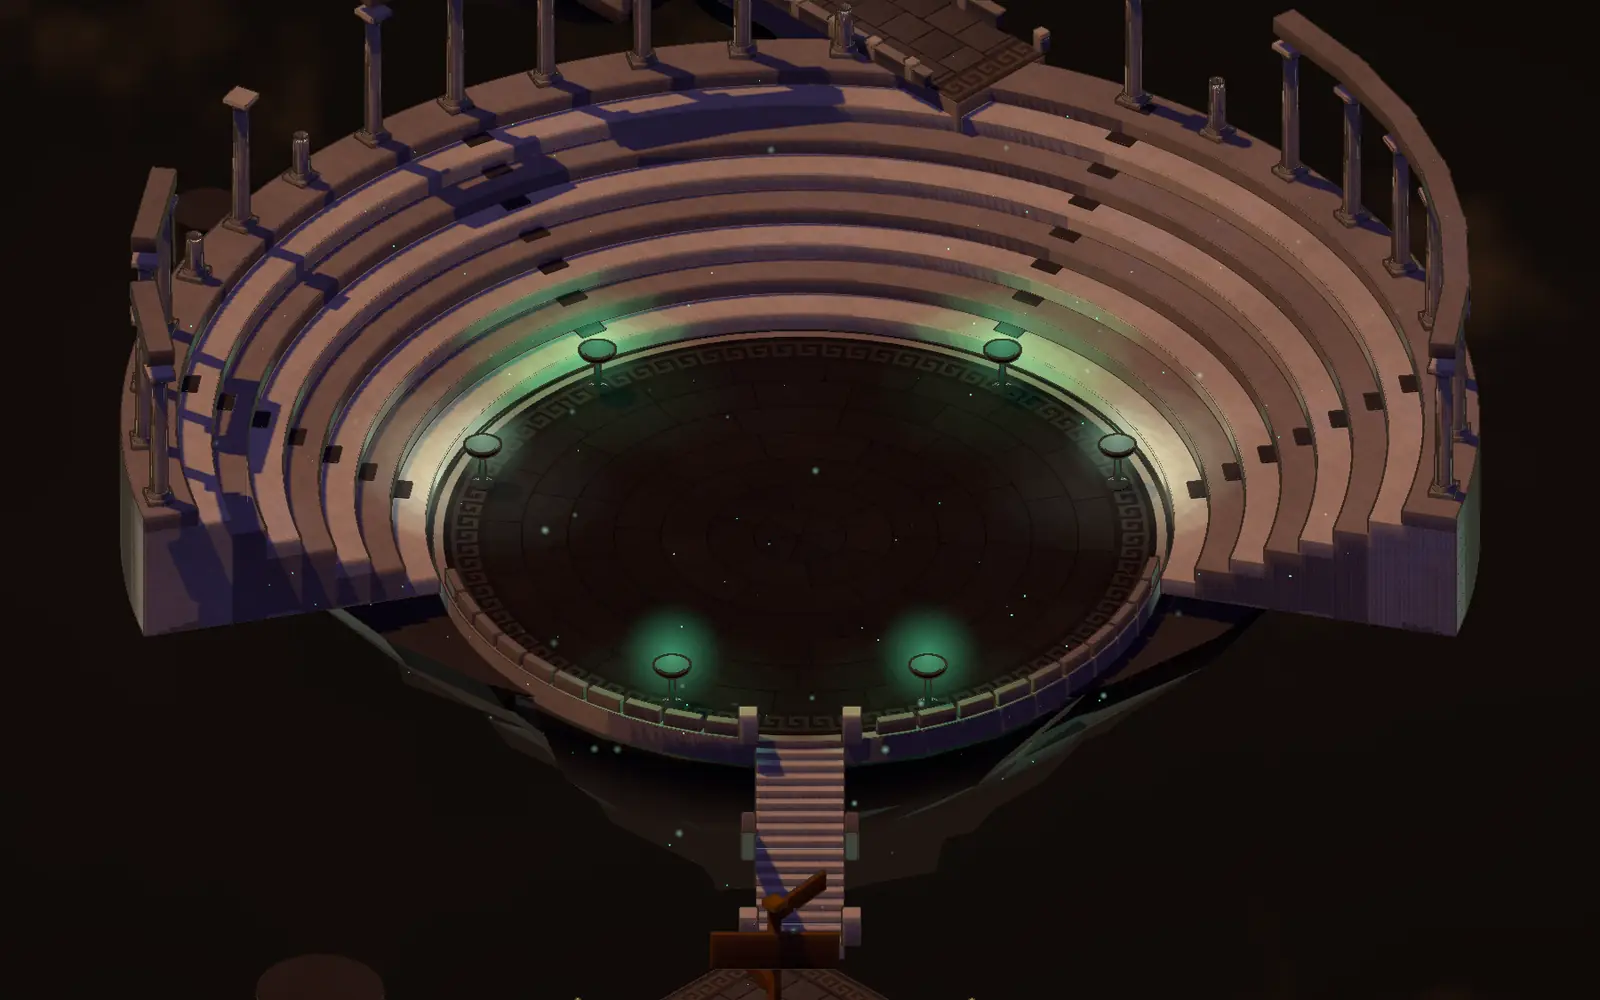
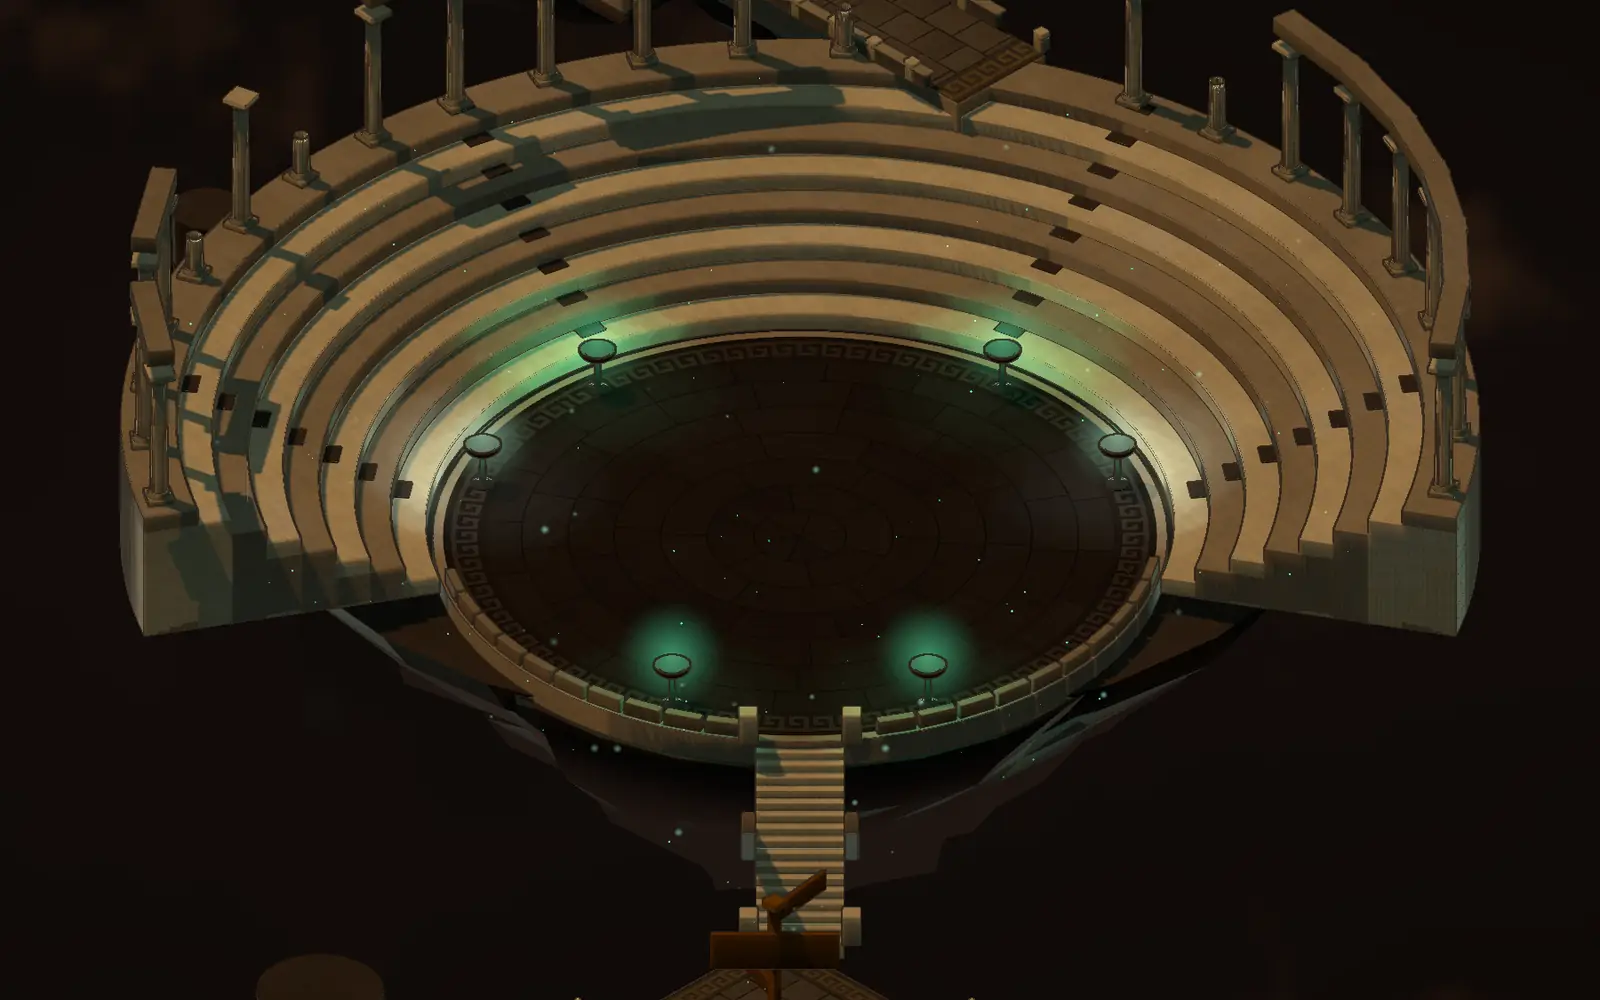
Default world: the sky light is a mint-grey instead of violet, so lit stone reads warm and the shadows stop going purple-mud; posters re-rendered

diff --git a/src/components/world/scene.ts b/src/components/world/scene.ts
@@ -37,7 +37,7 @@ export function mount(host: HTMLElement, o: WorldOpts) {
   const door = world.door;
 
   // light: a cool sky and warm ground for the shadows, one warm key that casts, and the fires (in the shader)
-  scene.add(new THREE.HemisphereLight("#6660a6", "#140c0a", 1.9));
+  scene.add(new THREE.HemisphereLight("#7c9088", "#1a110c", 1.9));
   const key = new THREE.DirectionalLight("#ffcf9e", 2.0);
   const LDIR = new THREE.Vector3(-0.5, 1, 0.12).normalize();
   key.castShadow = true;
